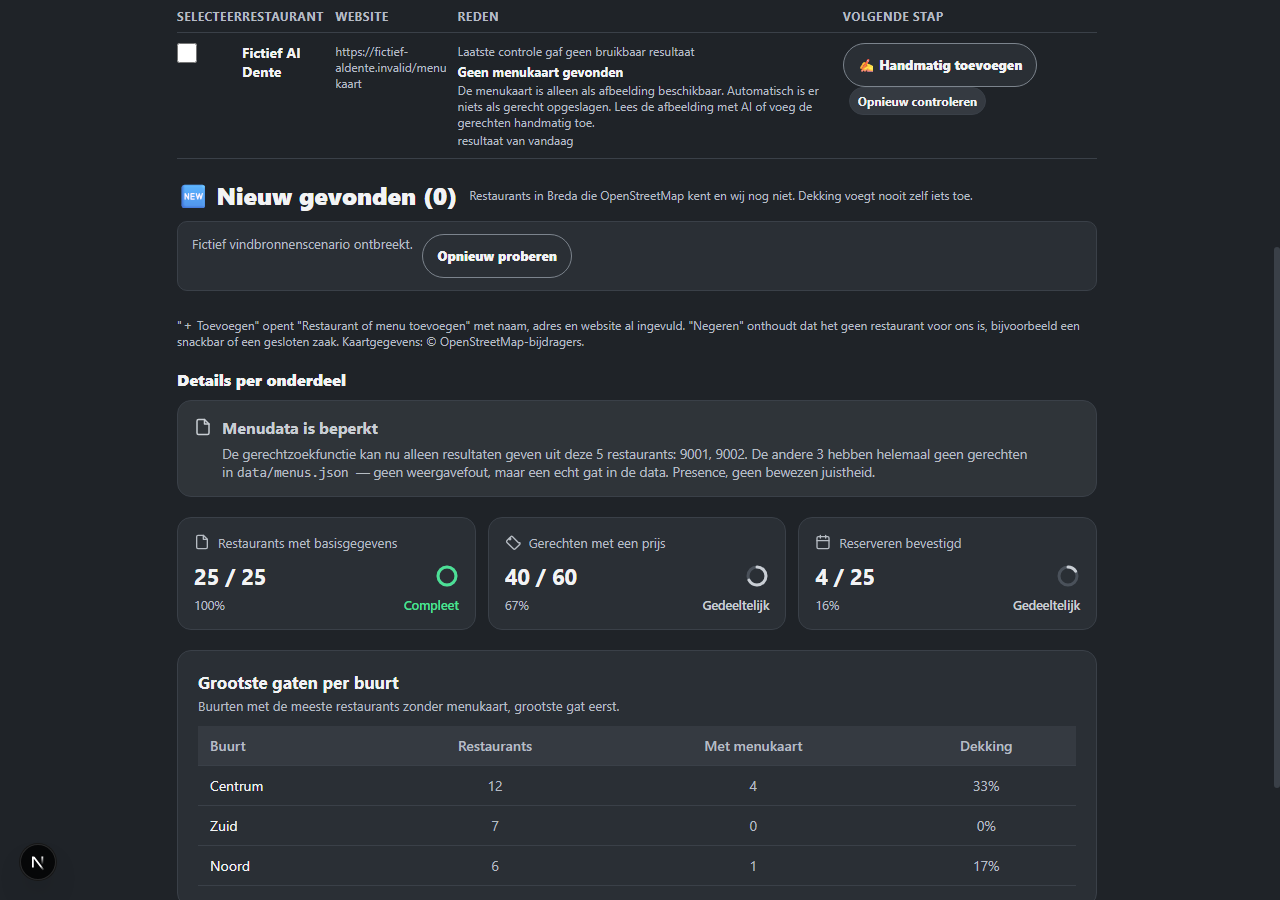
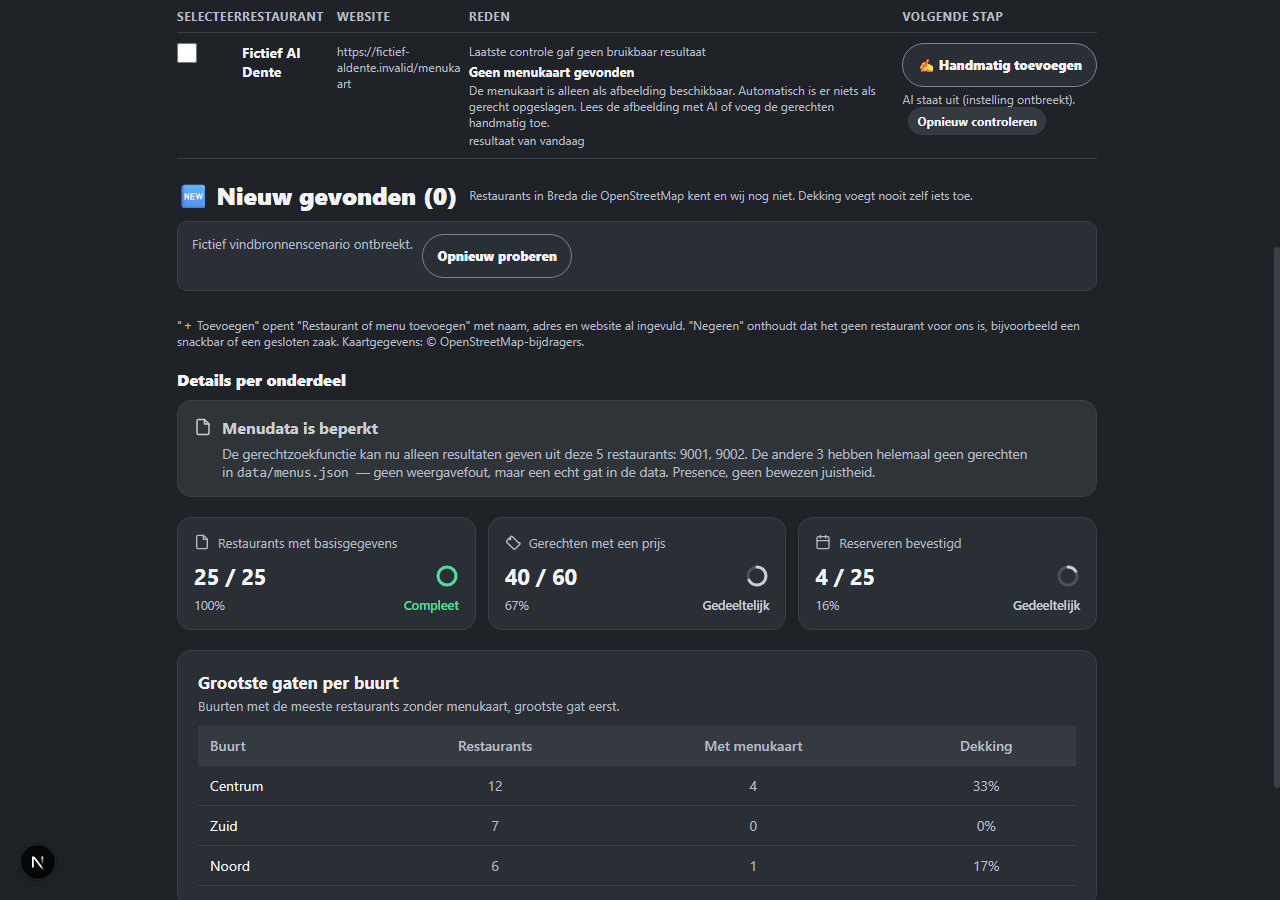
test(bewijs): BE-35 bewijs voor de bevestigde menulink en de AI-reden (#84)
Volledige fixture-browsercontrole op de bestaande BE-33-opstelling (npm run
test:browser:beeld-lezen), 1280 en 390 px in licht en donker: 136 controles
groen, 0 fout, 17 screenshots. Nieuw: de rij met een menu dat alleen als
afbeelding bestaat en AI uit zegt nu ook waarom ("AI staat uit (instelling
ontbreekt)."); die controle faalt als de reden ontbreekt. De gevraagde
screenshot staat in ops/browser/evidence/be-35/be35-rij-1280-light-ai-uit.png.

De BE-33-screenshots van die rij zijn bijgewerkt omdat de rijtekst veranderd is;
beeld-lezen-browser-evidence.json is volledig opnieuw geschreven. Alles fictief,
zonder netwerk en zonder productiegegevens. De toevoegen-safeguard uit de vorige
commit wordt door deze controle niet geraakt (die pagina doet niet mee).

Changed region(s): [[0.25, 0.0, 0.8438, 0.1867], [0.6562, 0.0, 0.7812, 0.0311]]

diff --git a/ops/browser/run-beeld-lezen-browser-check.js b/ops/browser/run-beeld-lezen-browser-check.js
@@ -9,6 +9,9 @@
 // What it shows, at 1280 and 390 px in light and dark:
 //   1. the result row of an image-only menu: "📷 Lees met AI (afbeelding)" when
 //      the AI is on and the budget allows it, "✍ Handmatig toevoegen" when not;
+//      BE-35 (#84, criterion 3): the row also says why — "AI staat uit
+//      (instelling ontbreekt)." — and that row is saved once as
+//      be35-rij-1280-light-ai-uit.png for that review;
 //   2. the Kaart view of the same menu: the image beside the dishes, each dish
 //      with "Controle nodig" and "gelezen van afbeelding N", and "Nalopen in de
 //      lijst" back to that row.
@@ -204,6 +207,14 @@ async function rowScenario(cdp, width, theme, aiState) {
       row.action === '✍ Handmatig toevoegen',
       JSON.stringify({ action: row.action, labels: row.aiLabels }),
     );
+    // BE-35 (#84, criterion 3): the row says in plain words why it offers the
+    // manual route instead of the AI one — the same reason the menu-import page
+    // shows for this answer of the existing status endpoint.
+    check(
+      `rij (${width}/${theme}/${aiState}): de rij zegt waarom de AI niet beschikbaar is`,
+      flatText(row.rowText).includes('AI staat uit (instelling ontbreekt).'),
+      flatText(row.rowText).slice(0, 240),
+    );
     check(
       `rij (${width}/${theme}/${aiState}): die stap opent de bestaande handmatige import`,
       typeof row.href === 'string' && row.href.startsWith('/internal/menu-import?restaurant=9010') && !row.href.includes('image=1'),
@@ -243,6 +254,21 @@ async function rowScenario(cdp, width, theme, aiState) {
   }
   await focusOn(cdp, '.cov-check-table');
   await shot(cdp, `be33-rij-${width}-${theme}-${aiState}.png`, { scenario: 'row', aiState });
+  // BE-35 (#84): the one screenshot the review asks for — a row with the reason,
+  // at 1280 px in light. Its own evidence folder, like every earlier ticket, so
+  // the BE-33 set stays exactly what that ticket proved.
+  if (width === 1280 && theme === 'light' && aiState === 'off') {
+    const be35Dir = path.join(__dirname, 'evidence', 'be-35');
+    fs.mkdirSync(be35Dir, { recursive: true });
+    const file = await screenshot(cdp, be35Dir, 'be35-rij-1280-light-ai-uit.png');
+    shots.push({
+      ...file,
+      viewport: `${viewport.width}x${viewport.height}`,
+      scenario: 'row-with-reason',
+      aiState,
+      dir: 'ops/browser/evidence/be-35',
+    });
+  }
 }
 
 
